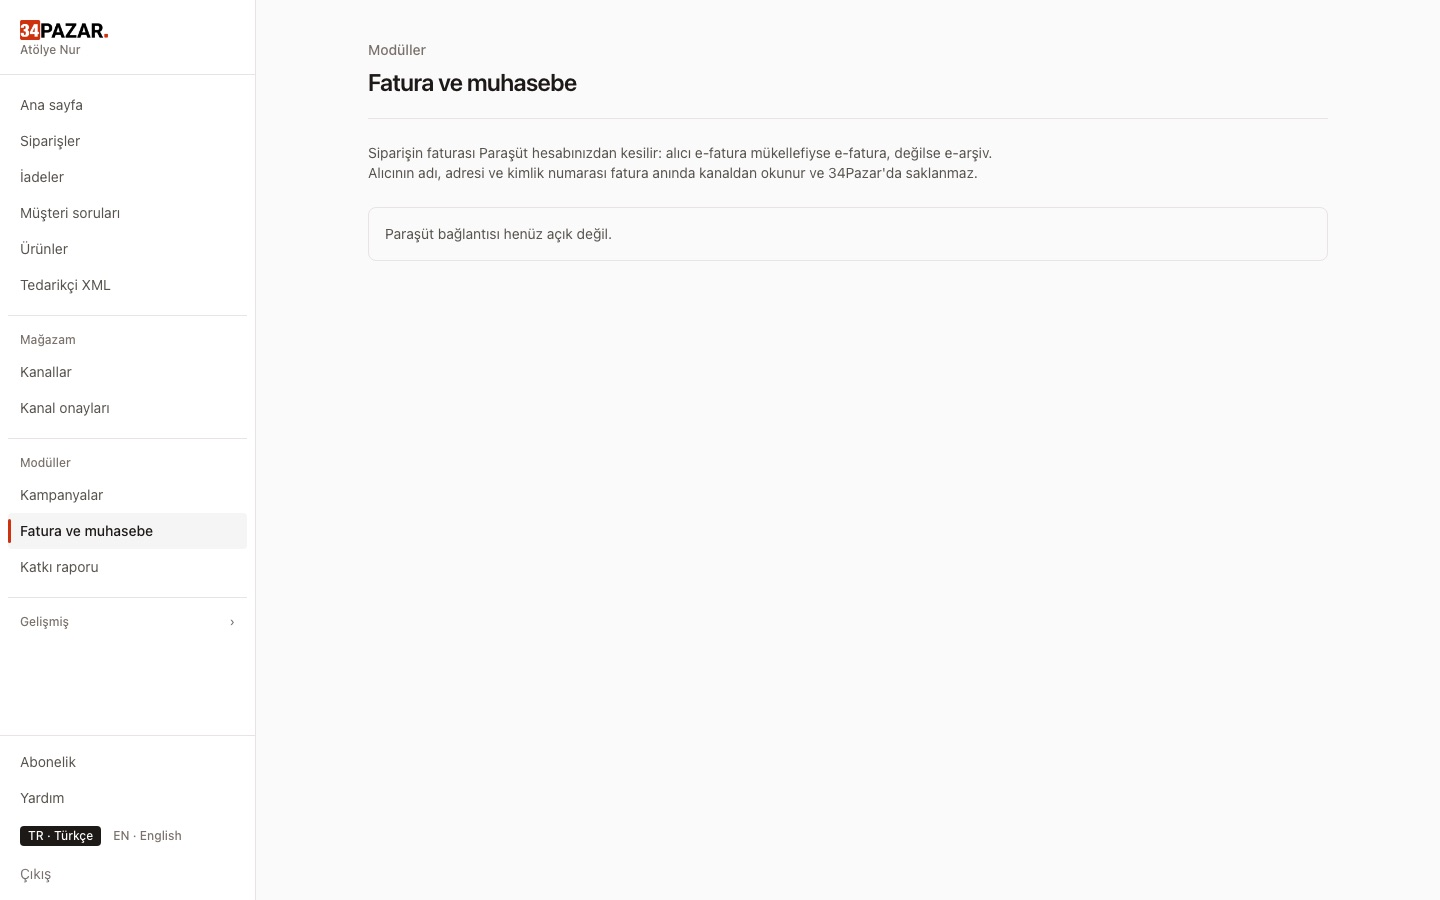
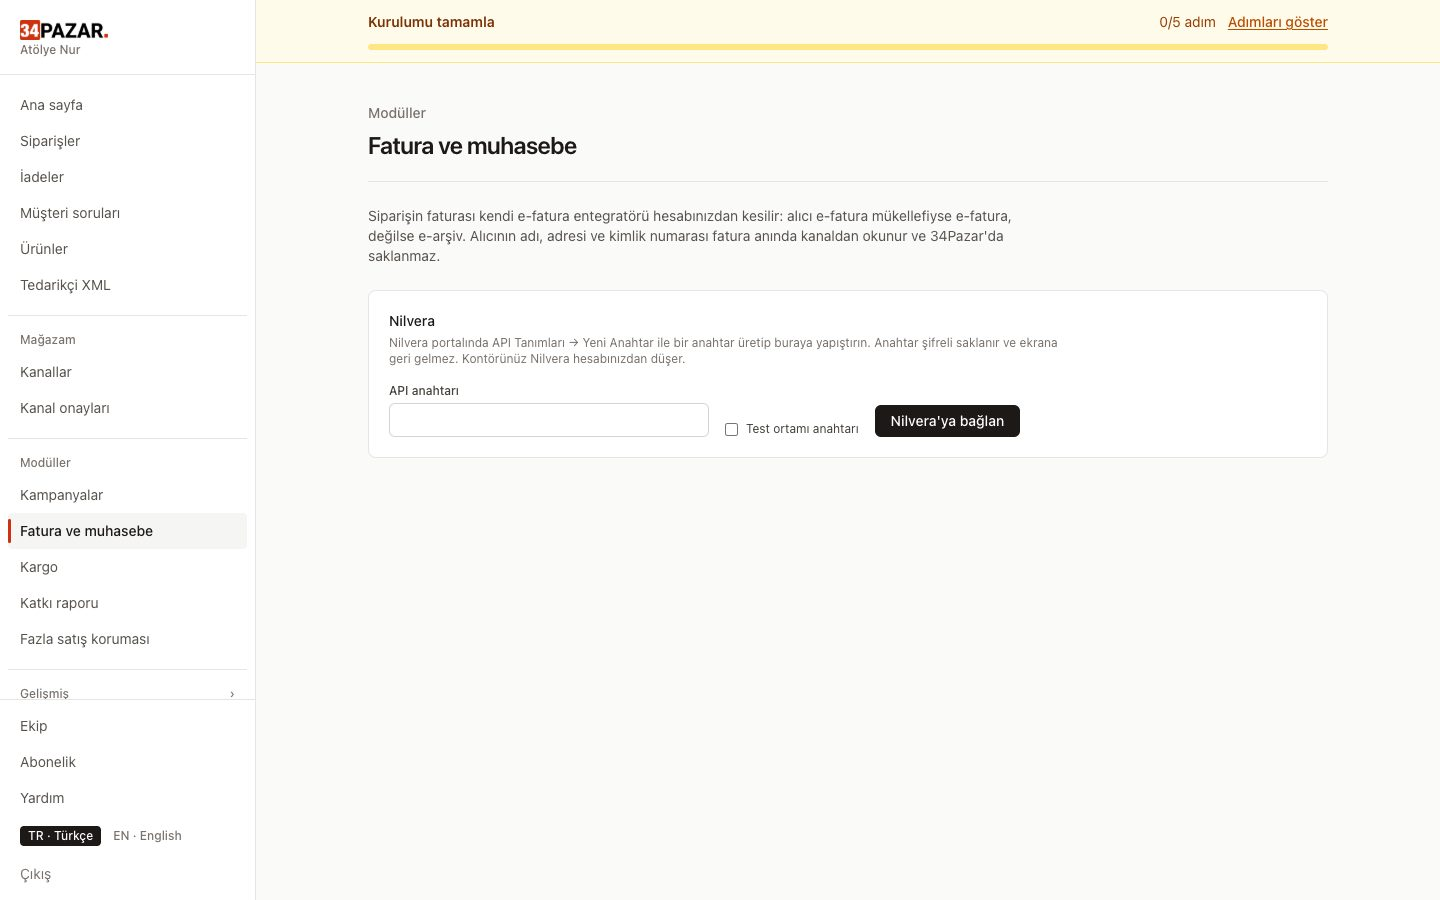
feat(site): e-fatura metinleri ve görselleri Nilvera'ya — 'Paraşüt hesabınla' sözü artık doğru değildi (uygulama anahtarı yok)
Fiyat sayfası, ana sayfa, e-fatura çözüm sayfası (TR+EN, iade kaydı sözü kaldırıldı), gizlilik metinleri; panel görüntüsü 'Paraşüt bağlantısı henüz açık değil' yerine Nilvera bağlama ekranı.

diff --git a/resources/content/solutions.php b/resources/content/solutions.php
@@ -128,51 +128,53 @@ return [
         'icon' => 'scale',
         'channels' => 'SupportsInvoiceData',
         'shot' => 'images/site/cozum/e-fatura.jpg',
-        'how_shots' => ['parasut-bagla', 'fatura-kes', null],
+        'how_shots' => ['nilvera-bagla', 'fatura-kes', null],
         'tr' => [
-            'menu' => 'E-fatura (Paraşüt)',
-            'menu_hint' => 'Siparişin faturası Paraşüt\'ten',
-            'title' => 'E-fatura ve e-arşiv — Paraşüt entegrasyonu',
-            'description' => 'Siparişin faturasını kendi Paraşüt hesabından kes: alıcı mükellefse e-fatura, değilse e-arşiv. İptal ve iade kaydı, pazaryerine fatura bağlantısı.',
-            'h1' => 'Siparişin faturası, kendi Paraşüt hesabından.',
-            'lead' => 'Paraşüt hesabını bağla; sipariş ekranından faturayı kes. Alıcı e-fatura mükellefiyse e-fatura, değilse e-arşiv kesilir. Alıcının adı, adresi ve kimlik numarası fatura anında kanaldan okunur, 34Pazar\'da saklanmaz.',
+            'menu' => 'E-fatura (Nilvera)',
+            'menu_hint' => 'Siparişin faturası Nilvera\'dan',
+            'title' => 'E-fatura ve e-arşiv — Nilvera entegrasyonu',
+            'description' => 'Siparişin faturasını kendi Nilvera hesabından kes: alıcı mükellefse e-fatura, değilse e-arşiv. e-Arşiv iptali, pazaryerine fatura dosyası ve bağlantısı.',
+            'h1' => 'Siparişin faturası, kendi Nilvera hesabından.',
+            'lead' => 'Nilvera API anahtarını bağla; sipariş ekranından faturayı kes. Alıcı e-fatura mükellefiyse e-fatura, değilse e-arşiv kesilir. Alıcının adı, adresi ve kimlik numarası fatura anında kanaldan okunur, 34Pazar\'da saklanmaz.',
             'problems' => [
-                'Her siparişin faturasını elle muhasebe programına giriyorsun.',
+                'Her siparişin faturasını elle portala giriyorsun.',
                 'Pazaryerine fatura yüklemeyi unutuyorsun.',
-                'İptal ve iade faturaları ayrı bir iş olarak birikiyor.',
+                'İptal edilen siparişlerin faturaları ayrı bir iş olarak birikiyor.',
             ],
             'how' => [
-                ['Paraşüt\'ü bağla', 'Fatura ve muhasebe ekranından Paraşüt hesabınla yetki verirsin; şifren bize gelmez.'],
-                ['Siparişten fatura kes', 'Tek tek, toplu ya da otomatik. Planına göre aylık fatura hakkı vardır.'],
+                ['Nilvera\'yı bağla', 'Nilvera portalında ürettiğin API anahtarını Fatura ve muhasebe ekranına yapıştırırsın; anahtar şifreli saklanır.'],
+                ['Siparişten fatura kes', 'Tek tek, toplu ya da otomatik. Planına göre aylık fatura hakkı vardır; kontör Nilvera hesabından düşer.'],
                 ['Kanala ilet', 'Trendyol\'a fatura dosyası, Hepsiburada ve n11\'e kalıcı fatura bağlantısı gider.'],
             ],
             'faqs' => [
-                ['q' => 'Fatura iptali nasıl çalışır?', 'a' => 'İptal edilen siparişin e-arşiv faturası, iptal süresi geçmemişse Paraşüt üzerinden iptal edilir. E-fatura iptal edilmez; alıcı iade faturası keser.'],
-                ['q' => 'İade faturası?', 'a' => 'Sonuçlanan iade talebinde kabul edilen kalemler Paraşüt\'e iade kaydı olarak yazılır. Alıcı e-fatura mükellefiyse iade faturasını alıcı keser.'],
-                ['q' => 'Fatura PDF\'leri sizde mi duruyor?', 'a' => 'Hayır. Pazaryerine giden kalıcı bağlantı her açılışta Paraşüt\'ten güncel PDF\'e yönlendirir; dosya bizde saklanmaz.'],
+                ['q' => 'Fatura iptali nasıl çalışır?', 'a' => 'İptal edilen siparişin e-arşiv faturası, Nilvera iptale izin veriyorsa oradan iptal edilir. E-fatura iptal edilmez; alıcı iade faturası keser.'],
+                ['q' => 'İade faturası?', 'a' => 'Nilvera yalnız e-belge keser; iade kaydını muhasebe programında açarsın. Alıcı e-fatura mükellefiyse iade faturasını alıcı keser.'],
+                ['q' => 'Fatura PDF\'leri sizde mi duruyor?', 'a' => 'Hayır. Pazaryerine giden kalıcı bağlantı her açılışta PDF\'i Nilvera\'dan alır; dosya bizde saklanmaz.'],
+                ['q' => 'Kontör kimden?', 'a' => 'Nilvera hesabından. Fatura sözleşmesi ve kontör senin Nilvera hesabındadır; 34Pazar aracı değildir.'],
             ],
         ],
         'en' => [
-            'menu' => 'E-invoicing (Paraşüt)',
-            'menu_hint' => 'Invoices from your Paraşüt account',
-            'title' => 'E-invoicing for Turkey — Paraşüt integration',
-            'description' => 'Issue Turkish e-invoices (e-Fatura / e-Arşiv) from your own Paraşüt account, record cancellations and returns, and send invoice links to marketplaces.',
-            'h1' => 'Invoices from your own Paraşüt account.',
-            'lead' => 'Connect Paraşüt and issue the invoice from the order screen: e-Fatura for registered buyers, e-Arşiv for everyone else. Buyer details are read from the channel at invoicing time and not stored by 34Pazar.',
+            'menu' => 'E-invoicing (Nilvera)',
+            'menu_hint' => 'Invoices from your Nilvera account',
+            'title' => 'E-invoicing for Turkey — Nilvera integration',
+            'description' => 'Issue Turkish e-invoices (e-Fatura / e-Arşiv) from your own Nilvera account, cancel e-Arşiv invoices, and send invoice files and links to marketplaces.',
+            'h1' => 'Invoices from your own Nilvera account.',
+            'lead' => 'Connect your Nilvera API key and issue the invoice from the order screen: e-Fatura for registered buyers, e-Arşiv for everyone else. Buyer details are read from the channel at invoicing time and not stored by 34Pazar.',
             'problems' => [
-                'You enter every invoice into your accounting software by hand.',
+                'You enter every invoice into the portal by hand.',
                 'You forget to upload invoices to the marketplace.',
-                'Cancellation and return invoices pile up as separate work.',
+                'Invoices of cancelled orders pile up as separate work.',
             ],
             'how' => [
-                ['Connect Paraşüt', 'Authorise with your Paraşüt account; your password never reaches us.'],
-                ['Invoice from the order', 'One by one, in bulk or automatically, within your plan\'s monthly allowance.'],
+                ['Connect Nilvera', 'Paste the API key you create in the Nilvera portal into the invoicing screen; it is stored encrypted.'],
+                ['Invoice from the order', 'One by one, in bulk or automatically, within your plan\'s monthly allowance; credits come from your Nilvera account.'],
                 ['Send to the channel', 'Trendyol receives the file; Hepsiburada and n11 receive a permanent invoice link.'],
             ],
             'faqs' => [
-                ['q' => 'How do cancellations work?', 'a' => 'For a cancelled order, the e-Arşiv invoice is cancelled in Paraşüt if the cancellation window is still open. e-Fatura invoices are not cancelled; the buyer issues a return invoice.'],
-                ['q' => 'And returns?', 'a' => 'Accepted items of a settled return request are recorded in Paraşüt as a return. If the buyer is an e-Fatura taxpayer, the buyer issues the return invoice.'],
-                ['q' => 'Do you store invoice PDFs?', 'a' => 'No. The permanent link sent to marketplaces redirects to a fresh PDF from Paraşüt every time; no file is stored on our side.'],
+                ['q' => 'How do cancellations work?', 'a' => 'For a cancelled order, the e-Arşiv invoice is cancelled in Nilvera if Nilvera still allows it. e-Fatura invoices are not cancelled; the buyer issues a return invoice.'],
+                ['q' => 'And returns?', 'a' => 'Nilvera only issues e-documents, so you record returns in your accounting software. If the buyer is an e-Fatura taxpayer, the buyer issues the return invoice.'],
+                ['q' => 'Do you store invoice PDFs?', 'a' => 'No. The permanent link sent to marketplaces fetches the PDF from Nilvera every time; no file is stored on our side.'],
+                ['q' => 'Who sells the credits?', 'a' => 'Nilvera. The invoicing contract and credits are in your own Nilvera account; 34Pazar is not an intermediary.'],
             ],
         ],
     ],

diff --git a/resources/views/site/home.blade.php b/resources/views/site/home.blade.php
@@ -52,7 +52,7 @@
 
     $capabilities = [
         $t('Fazla satış koruması', 'Overselling protection'),
-        $t('Paraşüt ile e-fatura', 'E-invoices via Paraşüt'),
+        $t('Nilvera ile e-fatura', 'E-invoices via Nilvera'),
         $t('Fiyat kuralı ve kampanya', 'Price rules and campaigns'),
         $t('Aylık ödeme, taahhüt yok', 'Monthly billing, no contract'),
     ];
@@ -61,7 +61,7 @@
     $why = [
         ['calendar', $t('Aylık öde, yıllık peşin yok', 'Pay monthly, no annual prepayment'), $t('Ücretli paketler aylık abonelik. İstediğin zaman değiştirir ya da iptal edersin.', 'Paid plans are monthly subscriptions. Change or cancel whenever you like.').($freePlan ? $t(' Ücretsiz paket kart bilgisi istemez.', ' The free plan needs no card.') : '')],
         ['shield', $t('Fazla satışa karşı stok çekirdeği', 'One stock core against overselling'), $t('Stok tek yerde tutulur, her satış bir kez düşülür. Kanallara eksi sayı gitmez; fazla satış panelde en üstte görünür.', 'Stock lives in one place and each sale is deducted once. Channels never get a negative number; overselling shows up first in the panel.')],
-        ['scale', $t('Paraşüt e-fatura pakette', 'Paraşüt e-invoicing included'), $t('E-fatura ve e-arşiv kendi Paraşüt hesabından; her pakette aylık fatura hakkı var, ayrı modül ücreti yok.', 'E-invoices and e-archive invoices from your own Paraşüt account; every plan includes a monthly invoice allowance, no add-on fee.')],
+        ['scale', $t('E-fatura pakette', 'E-invoicing included'), $t('E-fatura ve e-arşiv kendi Nilvera hesabından; her pakette aylık fatura hakkı var, ayrı modül ücreti yok. Kontör Nilvera hesabından düşer.', 'E-invoices and e-archive invoices from your own Nilvera account; every plan includes a monthly invoice allowance, no add-on fee. Credits are deducted from your Nilvera account.')],
         ['map', $t('Yurtdışı ve kur koruması', 'International, currency-safe'), $t('Yurtdışı pazaryerleri aynı stokla çalışır. Kanalın para birimi farklıysa TL fiyat yanlışlıkla euro olarak gitmez.', 'International marketplaces share the same stock. If a channel uses another currency, a lira price is never sent as euros by mistake.')],
     ];
 
@@ -100,7 +100,7 @@
     $faqs[] = ['q' => $t('Her kanalda farklı fiyat kullanabilir miyim?', 'Can I use different prices per channel?'), 'a' => $t('Evet. Kanal başına yüzde ya da tutar farkı ve yuvarlama tanımlayabilir, istersen bir ürüne kanal için elle fiyat girebilirsin. Alış maliyetini girdiysen maliyetin altına düşen fiyat kanala gönderilmez.', 'Yes. Set a percentage or fixed difference and rounding per channel, or enter a manual channel price for a product. If you entered a cost price, a price below cost is never sent.')];
     $faqs[] = ['q' => $t('Kanalın kendi panelinde fiyat değiştirirsem ne olur?', 'What if I change a price in the channel\'s own panel?'), 'a' => $t('Değişikliğini sessizce ezmeyiz. Farkı gördüğümüzde sana gösteririz; hangi fiyatın geçerli olacağına sen karar verirsin.', 'We never overwrite it silently. When we see the difference we show it to you, and you decide which price wins.')];
     $faqs[] = ['q' => $t('Teknik bilgi gerekiyor mu?', 'Do I need technical skills?'), 'a' => $t('Kod yazman gerekmez. Bir kanalı bağlamak için o kanalın satıcı panelinden API anahtarı gibi birkaç bilgiyi alıp bağlantı formuna yapıştırırsın; form hangi bilgiyi istediğini tek tek gösterir.', 'No coding. To connect a channel you copy a few details such as an API key from its seller panel into the connection form, which tells you exactly what it needs.')];
-    $faqs[] = ['q' => $t('E-fatura kesebiliyor muyum?', 'Can I issue e-invoices?'), 'a' => $t('Evet, kendi Paraşüt hesabından: alıcı e-fatura mükellefiyse e-fatura, değilse e-arşiv. Trendyol, Hepsiburada, n11 ve Shopify siparişlerinde fatura bilgisi kanaldan okunur.', 'Yes, from your own Paraşüt account (Turkey): an e-invoice if the buyer is registered for it, otherwise an e-archive invoice. Billing details are read from Trendyol, Hepsiburada, n11 and Shopify orders.')];
+    $faqs[] = ['q' => $t('E-fatura kesebiliyor muyum?', 'Can I issue e-invoices?'), 'a' => $t('Evet, kendi Nilvera hesabından: alıcı e-fatura mükellefiyse e-fatura, değilse e-arşiv. Trendyol, Hepsiburada, n11 ve Shopify siparişlerinde fatura bilgisi kanaldan okunur.', 'Yes, from your own Nilvera account (Turkey): an e-invoice if the buyer is registered for it, otherwise an e-archive invoice. Billing details are read from Trendyol, Hepsiburada, n11 and Shopify orders.')];
 
     $description = $en
         ? 'Manage your marketplace and online store stock, orders and prices from one panel. A sale on one channel reduces stock on all the others.'

diff --git a/resources/views/site/legal/gizlilik.blade.php b/resources/views/site/legal/gizlilik.blade.php
@@ -84,7 +84,7 @@
         <li><strong>E-posta gönderimi — Google (Google Ireland Ltd.):</strong> hesap doğrulama ve parola sıfırlama gibi hizmet e-postaları Google Workspace üzerinden gönderilir; bu kapsamda alıcı e-posta adresi ve e-posta içeriği Google tarafından işlenir. Veriler ABD'deki Google LLC'ye de aktarılabilir; aktarım AB-ABD Veri Gizliliği Çerçevesi ve/veya standart sözleşme maddeleri kapsamındadır.</li>
         <li><strong>Shopify (Shopify International Ltd., İrlanda):</strong> uygulamayı Shopify üzerinden kullandığınızda abonelik ücreti Shopify tarafından tahsil edilir; mağazanızla veri alışverişi Shopify'ın API'si üzerinden yapılır.</li>
         <li><strong>Bağladığınız satış kanalları:</strong> stok, fiyat, ürün ve kargo bilgileri, sizin talimatınızla bağladığınız kanallara (ör. Shopify, WooCommerce mağazanız veya pazaryeri hesabınız) API üzerinden gönderilir. Bu aktarımın amacı hizmetin kendisidir; kanalların veri işleme koşulları kendi politikalarına tabidir.</li>
-        <li><strong>e-Fatura bağlantısı:</strong> e-fatura modülünü kullanıyorsanız kesilen faturanın bağlantısı (ör. Hepsiburada ve n11'e) siparişin pazaryerine iletilir. Fatura belgesi bizde saklanmaz, fatura entegratörünüzde (Paraşüt) tutulur; bağlantı açıldığında belge o anda entegratörden alınarak gösterilir.</li>
+        <li><strong>e-Fatura bağlantısı:</strong> e-fatura modülünü kullanıyorsanız kesilen faturanın bağlantısı (ör. Hepsiburada ve n11'e) siparişin pazaryerine iletilir. Fatura belgesi bizde saklanmaz, fatura entegratörünüzde (ör. Nilvera ya da Paraşüt) tutulur; bağlantı açıldığında belge o anda entegratörden alınarak gösterilir.</li>
         <li><strong>Yetkili kurumlar:</strong> yalnızca hukuken zorunlu olduğu durumlarda, yetkili kamu kurum ve kuruluşlarına.</li>
     </ul>
 

diff --git a/resources/views/site/legal/privacy.blade.php b/resources/views/site/legal/privacy.blade.php
@@ -78,7 +78,7 @@
         <li><strong>Email delivery — Google (Google Ireland Ltd.):</strong> service emails such as account verification and password reset are sent via Google Workspace; the recipient's email address and the email content are processed by Google for this purpose. Data may also be transferred to Google LLC in the USA under the EU-US Data Privacy Framework and/or standard contractual clauses.</li>
         <li><strong>Shopify (Shopify International Ltd., Ireland):</strong> when you use the app through Shopify, the subscription fee is collected by Shopify and data is exchanged with your store through Shopify's API.</li>
         <li><strong>Sales channels you connect:</strong> stock, price, product and shipping information is sent via API to the channels you connect on your instructions (for example your Shopify or WooCommerce store or your marketplace account). This transfer is the service itself; the channels' data processing is subject to their own policies.</li>
-        <li><strong>e-Invoice link:</strong> if you use the e-invoice module, a link to the issued invoice is passed to the order's marketplace (e.g. Hepsiburada and n11). The invoice document is not stored by us; it is kept by your invoicing provider (Paraşüt) and fetched from it when the link is opened.</li>
+        <li><strong>e-Invoice link:</strong> if you use the e-invoice module, a link to the issued invoice is passed to the order's marketplace (e.g. Hepsiburada and n11). The invoice document is not stored by us; it is kept by your invoicing provider (e.g. Nilvera or Paraşüt) and fetched from it when the link is opened.</li>
         <li><strong>Authorities:</strong> only where legally required, to the competent public authorities.</li>
     </ul>
 

diff --git a/resources/views/site/pricing.blade.php b/resources/views/site/pricing.blade.php
@@ -86,7 +86,7 @@
             [$t('Yurtiçi ve Aras gönderisi, kendi sözleşmenle (WooCommerce siparişlerinde)', 'Yurtiçi and Aras shipments on your own contract (WooCommerce orders)'), null],
         ],
         $t('E-fatura', 'E-invoices') => [
-            [$t('Paraşüt hesabınla e-fatura ve e-arşiv', 'E-invoices and e-archive invoices with your Paraşüt account'), null],
+            [$t('Kendi Nilvera hesabınla e-fatura ve e-arşiv', 'E-invoices and e-archive invoices with your own Nilvera account'), null],
             [$t('Fatura bilgisi Trendyol, Hepsiburada, n11 ve Shopify siparişinden okunur', 'Billing details read from Trendyol, Hepsiburada, n11 and Shopify orders'), null],
         ],
         $t('Ekip ve roller', 'Team and roles') => [
@@ -242,7 +242,7 @@
                             @endif
                             @if ($anyInvoice)
                                 <tr>
-                                    <th scope="row">{{ $t('E-fatura / ay (Paraşüt)', 'E-invoices / month (Paraşüt)') }}</th>
+                                    <th scope="row">{{ $t('E-fatura / ay (Nilvera)', 'E-invoices / month (Nilvera)') }}</th>
                                     @foreach ($plans as $plan)
                                         <td class="font-semibold tabular-nums {{ $plan['code'] === 'pro' ? 'is-hi' : '' }}">{{ ($plan['hasInvoiceLimit'] ?? false) ? $count($plan['invoiceLimit']) : '—' }}</td>
                                     @endforeach

diff --git a/resources/content/step-shots.php b/resources/content/step-shots.php
@@ -3,7 +3,7 @@
 declare(strict_types=1);
 
 /*
-| Adım görselleri — panelden GERÇEK ekran görüntüsü (yerel demo hesabı, 21 Eki 2026).
+| Adım görselleri — panelden GERÇEK ekran görüntüsü (yerel demo hesabı, 21 Eki 2026; nilvera-bagla ve cozum/e-fatura 24 Eki).
 | Dosyalar public/images/site/adim/*.webp. `mx`/`my`: turuncu işaretin görsel
 | üzerindeki yeri (%): ilgili düğmenin ya da alanın hemen solu/üstü. Görsel
 | yenilenince yeniden ölçülür.
@@ -21,7 +21,7 @@ return [
     'kanal-bagla-en' => ['w' => 960, 'h' => 720, 'mx' => 5.5, 'my' => 47.1],
     'kanal-bagla-yurtdisi' => ['w' => 960, 'h' => 720, 'mx' => 5.5, 'my' => 47.1],
     'kargo-gir' => ['w' => 960, 'h' => 720, 'mx' => 79.5, 'my' => 37.9],
-    'parasut-bagla' => ['w' => 795, 'h' => 596, 'mx' => 8.1, 'my' => 50],
+    'nilvera-bagla' => ['w' => 795, 'h' => 596, 'mx' => 6.4, 'my' => 47],
     'siparis-ac' => ['w' => 960, 'h' => 720, 'mx' => 83.4, 'my' => 82.9],
     'siparis-gecmis' => ['w' => 960, 'h' => 720, 'mx' => 5.5, 'my' => 63.4],
     'siparis-kalemler' => ['w' => 960, 'h' => 720, 'mx' => 66.4, 'my' => 18.9],

diff --git a/tests/Feature/Site/HomePageTest.php b/tests/Feature/Site/HomePageTest.php
@@ -187,7 +187,7 @@ final class HomePageTest extends TestCase
         $this->get('/fiyatlar')
             ->assertOk()
             ->assertSee('<th scope="row">Kullanıcı</th>', false)
-            ->assertSee('E-fatura / ay (Paraşüt)')
+            ->assertSee('E-fatura / ay (Nilvera)')
             ->assertDontSee('AI önerisi / ay')
             ->assertDontSee('yalnız ürün ve kanal sayısıyla');
 
